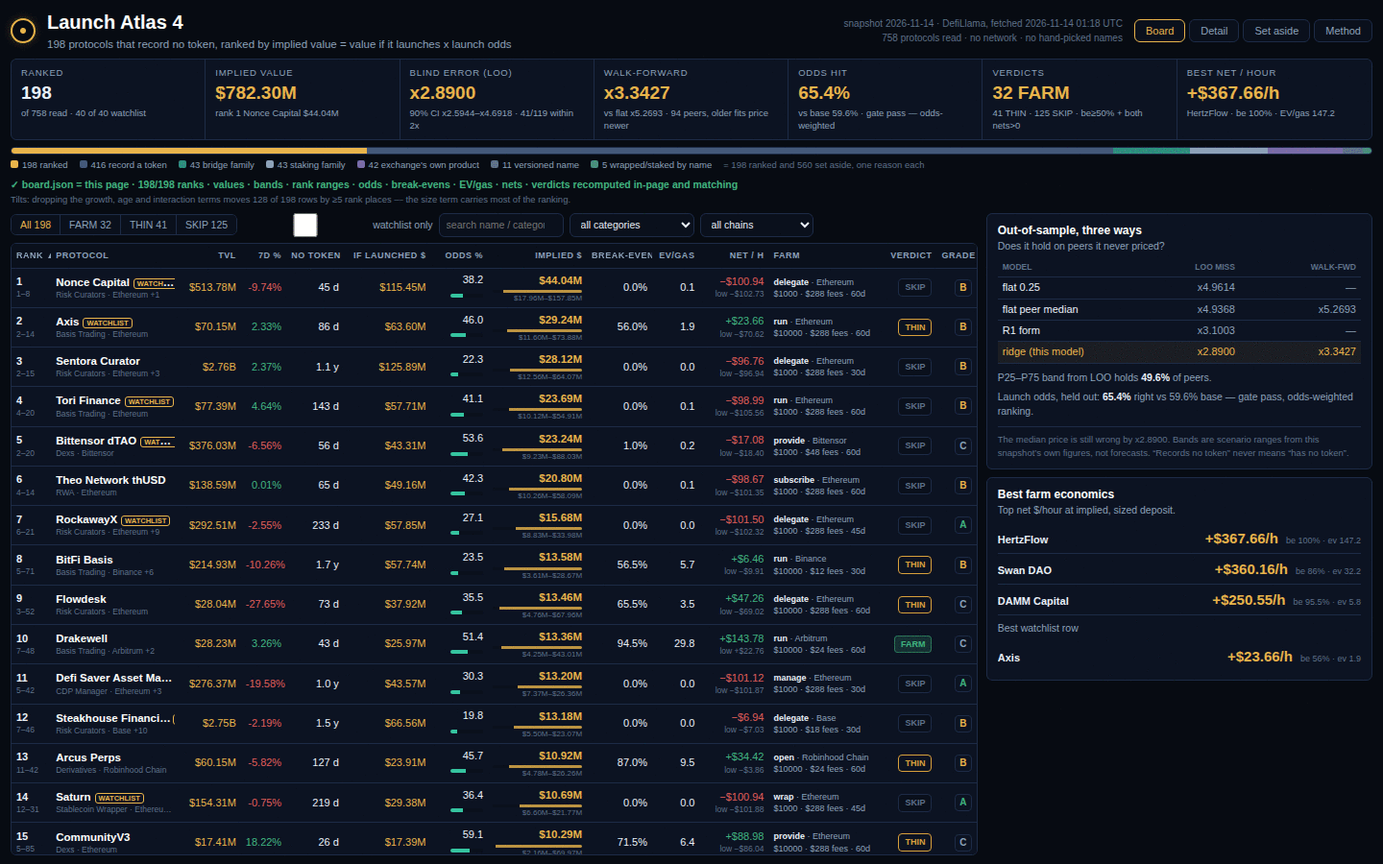
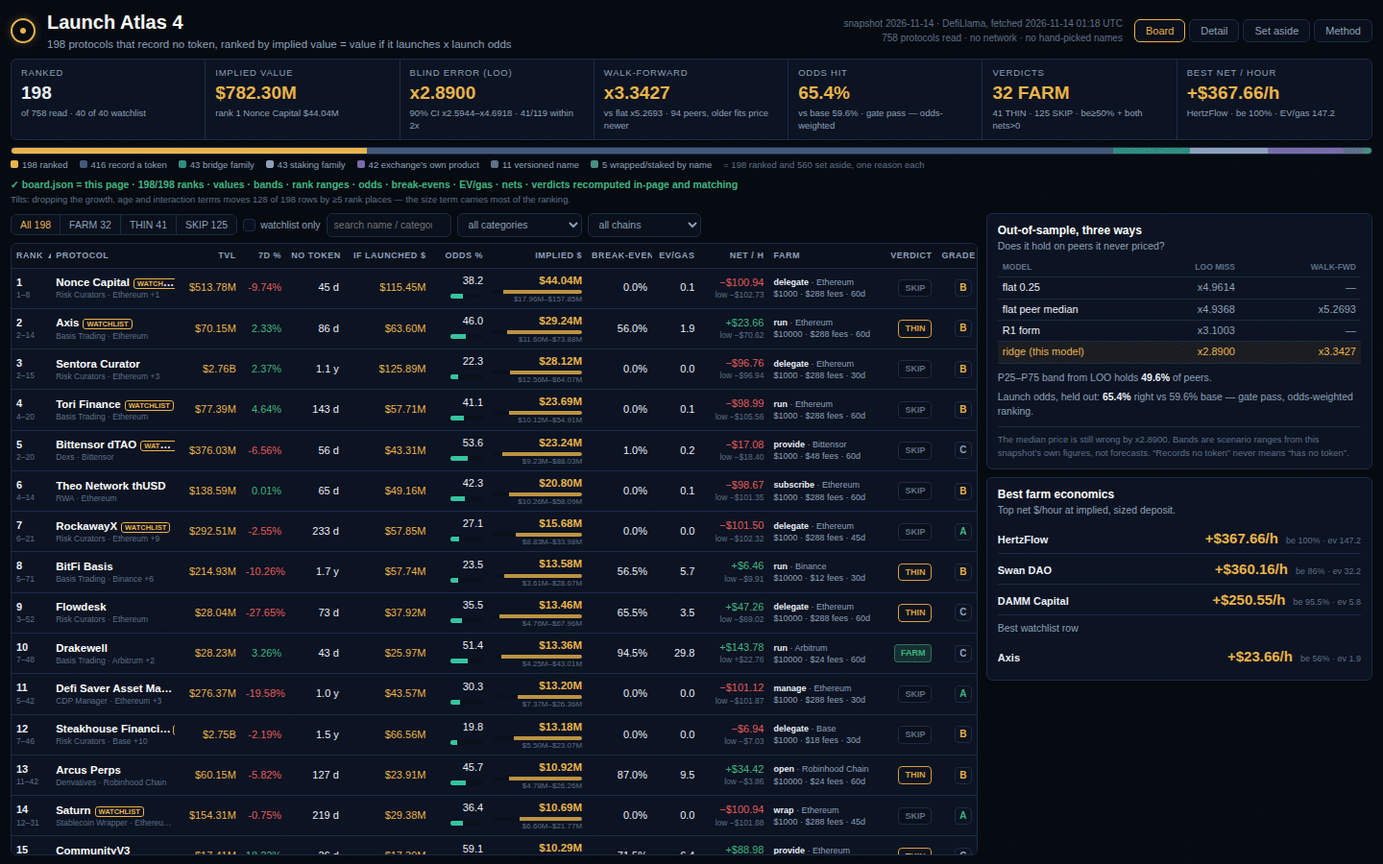
Final polish: revision passes, README, final screenshots; remove working spec
Revision passes (every measured number unchanged):
- lib/model.ts: extract the thrice-duplicated implied-value ranking comparator
  into named impliedCmp/impliedIdxCmp helpers (clarity/DRY).
- dashboard/app.js: mirror the same comparator extraction (icmp/iicmp).
- main.ts: early snapshot-shape validation + --out/--output flag alias.
- dashboard/app.css: design refinements from the screenshots — thicker gold
  band bars (4px) and teal odds bars (5px), subtle panel depth, and a properly
  dark-themed watchlist checkbox (was a native white square; scoped the
  #controls input rule to the search box) with muted dropdown labels.

README.md: what the entry is, the model in brief, how to run it, and the three
live make.fun badges (competition + this repo's rank/reward) as images plus a
link to the competition page. Real URLs, no placeholders.

Final screenshots re-captured at 1440x900, palette-quantized: 1-board 174093,
2-detail 97817, 3-setaside 94635 bytes (all <=240 KB), zero console errors,
in-page self-verification 198/198 on all 18 fields.

Verified unchanged: ridge LOO x2.8900 (CI x2.5944-x4.6918, 41/119 within 2x,
50.4% within 3x, spearman 0.344, range holds 49.6%), R1 x3.1003, flats
x4.9368/x4.9614, walk-forward x3.3427 vs x5.2693 over 94, odds 65.4% vs 59.6%
gate pass, 198/144/40-of-40, verdicts 32 FARM/41 THIN/125 SKIP, total implied
$782,300,948, tilts 128/198. Budgets: index 3559, css 7759, js 32206, total
[…]

Changed region(s): [[0.0, 0.3111, 0.7188, 0.9956], [0.1875, 0.2489, 0.4688, 0.28], [0.5, 0.2489, 0.5625, 0.28]]

diff --git a/dashboard/app.js b/dashboard/app.js
@@ -28,6 +28,8 @@ function fitLogistic(rows,w){const g=w?OG:[],pen=w?[0,1,1,1,1,1,1]:[0,0.1],X=row
 const lF=(m,p,age)=>{const x=lf(Object.assign({},p,{age}),m.groups,m.w);return 1/(1+Math.exp(-x.reduce((s,v,j)=>s+v*m.beta[j],0)));};
 function launchOdds(m,p){const a=lF(m,p,p.age),b=lF(m,p,p.age+730);return Math.max(0.03,Math.min(0.85,(b-a)/(1-a)));}
 const impliedValue=(v,o)=>Math.round(v*o);
+const icmp=f=>(a,b)=>f(b)-f(a)||b.tvl_usd-a.tvl_usd||(a.slug<b.slug?-1:1);
+const iicmp=(it,im)=>(a,b)=>im[b]-im[a]||it[b].tvl_usd-it[a].tvl_usd||(it[a].slug<it[b].slug?-1:1);
 const EXC=new Set(['CEX','Bridge','Canonical Bridge','Liquid Staking','Liquid Restaking','Restaked BTC']);
 const isVer=n=>/\s(?:v\d+(?:\.\d+)*|\d+\.\d+(?:\.\d+)*)$/i.test(n);
 const isNW=n=>/\b(?:wrapped|staked|staking)\b/i.test(n);
@@ -42,10 +44,10 @@ const tierBonus=t=>t>=1e9?30:t>=1e8?20:t>=1e7?10:0;
 const holdDays=a=>a<180?60:a<365?45:30;
 function farmPlan(p,implied){const chain=p.chains[0],{band,klass}=chainFee(chain),hold=holdDays(p.age),hours=(150+tierBonus(p.tvl_usd))/60;const opp=d=>d*TBILL*hold/365,net=d=>implied*(d/p.tvl_usd)*SHARE-band-opp(d);let deposit=1000,best=-Infinity;for(const d of DEPOSITS){const v=net(d);if(v>best){best=v;deposit=d;}}if(best<=0)deposit=1000;return{steps:STEPS[p.slug]||[],fees_usd:band,hours,hold_days:hold,chain,chain_class:klass,deposit_usd:deposit};}
 function economics(implied,bl,tvl,dep,fees,hold,hours){const opp=dep*TBILL*hold/365,sl=v=>v*(dep/tvl)*SHARE,ni=sl(implied)-fees-opp,nl=sl(bl)-fees-opp;return{slice_usd:sl(implied),opportunity_usd:opp,net_total_implied:ni,net_per_hour_implied:ni/hours,net_total_band_low:nl,net_per_hour_band_low:nl/hours};}
-function boot(peers,ranked,odds,plans,N){const rng=mulberry32(0x4c413032),n=peers.length,R=ranked.length,vals=ranked.map(()=>[]),rks=ranked.map(()=>[]),nets=ranked.map(()=>[]),sls=ranked.map(()=>[]),opp={};for(const p of ranked){const pl=plans[p.slug];opp[p.slug]=pl.deposit_usd*TBILL*pl.hold_days/365;}for(let r=0;r<N;r++){const smp=[];for(let i=0;i<n;i++)smp.push(peers[Math.floor(rng()*n)]);const m=fitRidge(smp),ri=ranked.map((p,i)=>{const v=valueIfLaunched(m,p);vals[i].push(v);const imp=impliedValue(v,odds[p.slug]),pl=plans[p.slug],sl=imp*(pl.deposit_usd/p.tvl_usd)*SHARE;sls[i].push(sl);nets[i].push(sl-pl.fees_usd-opp[p.slug]);return imp;});ranked.map((_,i)=>i).sort((a,b)=>ri[b]-ri[a]||ranked[b].tvl_usd-ranked[a].tvl_usd||(ranked[a].slug<ranked[b].slug?-1:1)).forEach((i,pl)=>rks[i].push(pl+1));}const out={};ranked.forEach((p,i)=>{const o=odds[p.slug],pl=plans[p.slug],vs=[...vals[i]].sort((a,b)=>a-b),bl=Math.round(qnt(vs,.1)),bh=Math.round(qnt(vs,.9)),rs=[...rks[i]].sort((a,b)=>a-b),rl=Math.max(1,Math.min(R,Math.round(qnt(rs,.1)))),rh=Math.max(1,Math.min(R,Math.round(qnt(rs,.9)))),be=nets[i].filter(v=>v>0).length/N;out[p.slug]={band_lo:bl,band_hi:bh,implied_band_lo:Math.round(bl*o),implied_band_hi:Math.round(bh*o),rank_lo:rl,rank_hi:rh,break_even_odds_pct:Math.round(be*1000)/10,ev_per_gas:Math.round(mean(sls[i])/pl.fees_usd*10)/10,mean_refit_net:mean(nets[i]),grade:bh/bl<=4?'A':bh/bl<=9?'B':'C'};});return out;}
+function boot(peers,ranked,odds,plans,N){const rng=mulberry32(0x4c413032),n=peers.length,R=ranked.length,vals=ranked.map(()=>[]),rks=ranked.map(()=>[]),nets=ranked.map(()=>[]),sls=ranked.map(()=>[]),opp={};for(const p of ranked){const pl=plans[p.slug];opp[p.slug]=pl.deposit_usd*TBILL*pl.hold_days/365;}for(let r=0;r<N;r++){const smp=[];for(let i=0;i<n;i++)smp.push(peers[Math.floor(rng()*n)]);const m=fitRidge(smp),ri=ranked.map((p,i)=>{const v=valueIfLaunched(m,p);vals[i].push(v);const imp=impliedValue(v,odds[p.slug]),pl=plans[p.slug],sl=imp*(pl.deposit_usd/p.tvl_usd)*SHARE;sls[i].push(sl);nets[i].push(sl-pl.fees_usd-opp[p.slug]);return imp;});ranked.map((_,i)=>i).sort(iicmp(ranked,ri)).forEach((i,pl)=>rks[i].push(pl+1));}const out={};ranked.forEach((p,i)=>{const o=odds[p.slug],pl=plans[p.slug],vs=[...vals[i]].sort((a,b)=>a-b),bl=Math.round(qnt(vs,.1)),bh=Math.round(qnt(vs,.9)),rs=[...rks[i]].sort((a,b)=>a-b),rl=Math.max(1,Math.min(R,Math.round(qnt(rs,.1)))),rh=Math.max(1,Math.min(R,Math.round(qnt(rs,.9)))),be=nets[i].filter(v=>v>0).length/N;out[p.slug]={band_lo:bl,band_hi:bh,implied_band_lo:Math.round(bl*o),implied_band_hi:Math.round(bh*o),rank_lo:rl,rank_hi:rh,break_even_odds_pct:Math.round(be*1000)/10,ev_per_gas:Math.round(mean(sls[i])/pl.fees_usd*10)/10,mean_refit_net:mean(nets[i]),grade:bh/bl<=4?'A':bh/bl<=9?'B':'C'};});return out;}
 const VERDICT_RULE='FARM if break-even odds are at least 50% and net at implied value is positive and net at the low end of the band is positive; otherwise THIN if mean refit net is positive; otherwise SKIP.';
 const verdictOf=(a,e)=>a.break_even_odds_pct>=50&&e.net_per_hour_implied>0&&e.net_per_hour_band_low>0?'FARM':a.mean_refit_net>0?'THIN':'SKIP';
-function buildRadar(){const protocols=parse(D.meta.asOf,D.protocols),peers=peersOf(protocols),uni=universe(protocols,D.watchlist),W=new Set(D.watchlist),gm=fitLogistic(protocols,true),fr=fitRidge(peers),odds={},vals={};for(const p of uni.ranked){odds[p.slug]=launchOdds(gm,p);vals[p.slug]=valueIfLaunched(fr,p);}const gate=D.validation.odds.gatePass,imp=p=>gate?impliedValue(vals[p.slug],odds[p.slug]):vals[p.slug];const rs=[...uni.ranked].sort((a,b)=>imp(b)-imp(a)||b.tvl_usd-a.tvl_usd||(a.slug<b.slug?-1:1)),plans={};for(const p of rs)plans[p.slug]=farmPlan(p,imp(p));const an=boot(peers,rs,odds,plans,200);const rows=rs.map((p,i)=>{const a=an[p.slug],pl=plans[p.slug],im=imp(p),e=economics(im,a.implied_band_lo,p.tvl_usd,pl.deposit_usd,pl.fees_usd,pl.hold_days,pl.hours),o=odds[p.slug];return{slug:p.slug,name:p.name,rank:i+1,category:p.category,chain:p.chains[0],chains:p.chains,watchlist:W.has(p.slug),tvl_usd:p.tvl_usd,change_7d_pct:p.change_7d==null?0:p.change_7d,age_days:p.age,value_if_launched_usd:vals[p.slug],launch_odds_pct:Math.round(o*1000)/10,implied_value_usd:im,band_lo:a.band_lo,band_hi:a.band_hi,implied_band_lo:a.implied_band_lo,implied_band_hi:a.implied_band_hi,rank_lo:a.rank_lo,rank_hi:a.rank_hi,break_even_odds_pct:a.break_even_odds_pct,ev_per_gas:a.ev_per_gas,deposit_usd:pl.deposit_usd,fees_usd:pl.fees_usd,hours:pl.hours,hold_days:pl.hold_days,slice_usd:e.slice_usd,opportunity_usd:e.opportunity_usd,net_per_hour_implied:e.net_per_hour_implied,net_per_hour_band_low:e.net_per_hour_band_low,net_total_implied:e.net_total_implied,net_total_band_low:e.net_total_band_low,mean_refit_net:a.mean_refit_net,verdict:verdictOf(a,e),grade:a.grade,farm_steps:pl.steps};});const verdicts={FARM:0,THIN:0,SKIP:0};for(const r of rows)verdicts[r.verdict]++;const totalImplied=rows.reduce((s,r)=>s+r.implied_value_usd,0),best=[...rows].sort((a,b)=>b.net_per_hour_implied-a.net_per_hour_implied)[0];return{protocols,peers,fr,gm,odds,vals,plans,an,rows,setAside:uni.setAside,accounting:uni.accounting,verdicts,totalImplied,best};}
+function buildRadar(){const protocols=parse(D.meta.asOf,D.protocols),peers=peersOf(protocols),uni=universe(protocols,D.watchlist),W=new Set(D.watchlist),gm=fitLogistic(protocols,true),fr=fitRidge(peers),odds={},vals={};for(const p of uni.ranked){odds[p.slug]=launchOdds(gm,p);vals[p.slug]=valueIfLaunched(fr,p);}const gate=D.validation.odds.gatePass,imp=p=>gate?impliedValue(vals[p.slug],odds[p.slug]):vals[p.slug];const rs=[...uni.ranked].sort(icmp(imp)),plans={};for(const p of rs)plans[p.slug]=farmPlan(p,imp(p));const an=boot(peers,rs,odds,plans,200);const rows=rs.map((p,i)=>{const a=an[p.slug],pl=plans[p.slug],im=imp(p),e=economics(im,a.implied_band_lo,p.tvl_usd,pl.deposit_usd,pl.fees_usd,pl.hold_days,pl.hours),o=odds[p.slug];return{slug:p.slug,name:p.name,rank:i+1,category:p.category,chain:p.chains[0],chains:p.chains,watchlist:W.has(p.slug),tvl_usd:p.tvl_usd,change_7d_pct:p.change_7d==null?0:p.change_7d,age_days:p.age,value_if_launched_usd:vals[p.slug],launch_odds_pct:Math.round(o*1000)/10,implied_value_usd:im,band_lo:a.band_lo,band_hi:a.band_hi,implied_band_lo:a.implied_band_lo,implied_band_hi:a.implied_band_hi,rank_lo:a.rank_lo,rank_hi:a.rank_hi,break_even_odds_pct:a.break_even_odds_pct,ev_per_gas:a.ev_per_gas,deposit_usd:pl.deposit_usd,fees_usd:pl.fees_usd,hours:pl.hours,hold_days:pl.hold_days,slice_usd:e.slice_usd,opportunity_usd:e.opportunity_usd,net_per_hour_implied:e.net_per_hour_implied,net_per_hour_band_low:e.net_per_hour_band_low,net_total_implied:e.net_total_implied,net_total_band_low:e.net_total_band_low,mean_refit_net:a.mean_refit_net,verdict:verdictOf(a,e),grade:a.grade,farm_steps:pl.steps};});const verdicts={FARM:0,THIN:0,SKIP:0};for(const r of rows)verdicts[r.verdict]++;const totalImplied=rows.reduce((s,r)=>s+r.implied_value_usd,0),best=[...rows].sort((a,b)=>b.net_per_hour_implied-a.net_per_hour_implied)[0];return{protocols,peers,fr,gm,odds,vals,plans,an,rows,setAside:uni.setAside,accounting:uni.accounting,verdicts,totalImplied,best};}
 /* ---- verification ---- */
 const FIELDS=['rank','implied_value_usd','value_if_launched_usd','launch_odds_pct','band_lo','band_hi','implied_band_lo','implied_band_hi','rank_lo','rank_hi','break_even_odds_pct','ev_per_gas','net_per_hour_implied','net_per_hour_band_low','verdict','grade','deposit_usd','fees_usd'];
 function verify(M){const ref={};for(const r of D.rows)ref[r.slug]=r;const counts={};let allOk=true;for(const f of FIELDS){let ok=0;for(const r of M.rows){const q=ref[r.slug];if(!q){allOk=false;continue;}const a=r[f],b=q[f],eq=typeof a==='number'?Math.abs(a-b)<1e-6:a===b;if(eq)ok++;else allOk=false;}counts[f]=ok;}return{counts,allOk,n:M.rows.length};}

diff --git a/dashboard/app.css b/dashboard/app.css
@@ -2,7 +2,7 @@
 *{box-sizing:border-box;margin:0;padding:0}html,body{height:100%}
 body{background:var(--bg);color:var(--ink);font:12px/1.4 -apple-system,BlinkMacSystemFont,"Segoe UI",Roboto,Helvetica,Arial,sans-serif;font-variant-numeric:tabular-nums;display:flex;flex-direction:column;height:100vh;overflow:hidden;padding:9px 11px;gap:7px}
 .lab{font-size:10px;letter-spacing:.08em;text-transform:uppercase;color:var(--muted)}.faint{color:var(--faint)}.muted{color:var(--muted)}.gold{color:var(--gold)}.pos{color:var(--green)}.neg{color:var(--red)}
-.panel{background:var(--panel);border:1px solid var(--line);border-radius:6px}
+.panel{background:var(--panel);border:1px solid var(--line);border-radius:6px;box-shadow:0 1px 3px rgba(0,0,0,.35)}
 #hdr{display:flex;align-items:center;gap:12px;flex:0 0 auto}
 .radar{width:26px;height:26px;border-radius:50%;border:2px solid var(--gold);position:relative;flex:0 0 auto;box-shadow:0 0 10px rgba(233,180,76,.25)}.radar::after{content:"";position:absolute;inset:8px;border-radius:50%;background:var(--gold)}
 #hdr h1{font-size:20px;font-weight:600;color:#fff}#claim{color:var(--muted);font-size:11.5px;margin-top:1px}
@@ -16,16 +16,16 @@ body{background:var(--bg);color:var(--ink);font:12px/1.4 -apple-system,BlinkMacS
 #split{flex:1 1 auto;display:flex;gap:9px;min-height:0}#left{flex:0 0 71%;display:flex;flex-direction:column;min-width:0;min-height:0}#rail{flex:1 1 29%;display:flex;flex-direction:column;gap:8px;min-height:0;overflow:auto}
 #controls{display:flex;gap:6px;align-items:center;flex:0 0 auto;margin-bottom:6px;flex-wrap:wrap}
 .seg{display:flex;border:1px solid var(--line);border-radius:6px;overflow:hidden}.seg button{background:var(--panel2);border:0;color:var(--muted);padding:4px 9px;font-size:10.5px;cursor:pointer;border-right:1px solid var(--line)}.seg button:last-child{border-right:0}.seg button.on{color:var(--gold)}
-#controls input,#controls select{background:var(--panel2);border:1px solid var(--line);color:var(--ink);border-radius:6px;padding:4px 7px;font-size:10.5px;height:25px}#controls input{width:130px}#controls select{max-width:130px}
-.toggle{display:flex;align-items:center;gap:5px;font-size:10.5px;color:var(--muted);cursor:pointer}.toggle input{accent-color:var(--gold)}
+#controls input[type="search"],#controls select{background:var(--panel2);border:1px solid var(--line);color:var(--ink);border-radius:6px;padding:4px 7px;font-size:10.5px;height:25px}#controls input[type="search"]{width:130px}#controls select{max-width:130px;color:var(--muted)}
+.toggle{display:flex;align-items:center;gap:5px;font-size:10.5px;color:var(--muted);cursor:pointer}.toggle input{appearance:none;-webkit-appearance:none;width:13px;height:13px;border:1px solid var(--line);border-radius:3px;background:var(--panel2);cursor:pointer;position:relative;vertical-align:-2px;flex:0 0 auto}.toggle input:checked{background:var(--gold);border-color:var(--gold)}.toggle input:checked::after{content:"";position:absolute;left:4px;top:1px;width:3px;height:7px;border:solid var(--bg);border-width:0 2px 2px 0;transform:rotate(45deg)}
 #tablewrap{flex:1 1 auto;overflow:auto;min-height:0;border:1px solid var(--line);border-radius:6px;background:var(--panel)}
 table{border-collapse:collapse;width:100%;table-layout:fixed}
 thead th{position:sticky;top:0;background:var(--panel2);z-index:2;font-size:9px;letter-spacing:.06em;text-transform:uppercase;color:var(--muted);text-align:right;padding:6px 5px;border-bottom:1px solid var(--line);cursor:pointer;white-space:nowrap;font-weight:600}thead th.l{text-align:left}
 tbody td{padding:4px 5px;border-bottom:1px solid var(--line);text-align:right;font-size:11px;vertical-align:middle;overflow:hidden}tbody td.l{text-align:left}tbody tr{cursor:pointer}tbody tr:hover{background:rgba(30,44,71,.35)}tbody tr.sel{background:rgba(233,180,76,.08)}
 .rk{font-weight:600}.rksub{font-size:8.5px;color:var(--faint)}.pname{font-weight:600;color:#fff;font-size:11.5px;white-space:nowrap;overflow:hidden;text-overflow:ellipsis}.psub{font-size:8.5px;color:var(--faint);white-space:nowrap;overflow:hidden;text-overflow:ellipsis}
 .wltag{border:1px solid var(--gold);color:var(--gold);border-radius:3px;font-size:7.5px;padding:0 3px;margin-left:4px}.money{color:var(--gold)}.imp{color:var(--gold);font-weight:600;font-size:11.5px}
-.bandbar{height:3px;background:var(--panel2);border-radius:2px;margin-top:2px;position:relative;overflow:hidden}.bandbar i{position:absolute;height:100%;background:var(--gold);opacity:.8}.bandfig{font-size:8px;color:var(--faint);white-space:nowrap}
-.oddsbar{display:inline-block;width:34px;height:4px;background:var(--panel2);border-radius:2px;overflow:hidden;vertical-align:middle;margin-left:4px}.oddsbar i{display:block;height:100%;background:var(--teal)}.netsub{font-size:8.5px;color:var(--faint)}
+.bandbar{height:4px;background:var(--panel2);border-radius:2px;margin-top:2px;position:relative;overflow:hidden}.bandbar i{position:absolute;height:100%;background:var(--gold);opacity:.8}.bandfig{font-size:8px;color:var(--faint);white-space:nowrap}
+.oddsbar{display:inline-block;width:34px;height:5px;background:var(--panel2);border-radius:2px;overflow:hidden;vertical-align:middle;margin-left:4px}.oddsbar i{display:block;height:100%;background:var(--teal)}.netsub{font-size:8.5px;color:var(--faint)}
 .farmcell{font-size:9px;color:var(--muted);line-height:1.35;text-align:left}.farmcell b{color:var(--ink)}
 .chip{display:inline-block;border-radius:4px;font-size:9px;font-weight:600;padding:2px 6px}.chip.FARM{background:rgba(67,181,129,.18);color:var(--green);border:1px solid rgba(67,181,129,.5)}.chip.THIN{color:var(--amber);border:1px solid var(--amber)}.chip.SKIP{background:var(--panel2);color:var(--faint);border:1px solid var(--line)}
 .grade{display:inline-block;width:18px;height:18px;line-height:16px;text-align:center;border:1px solid var(--line);border-radius:4px;font-size:10px;font-weight:600;color:var(--muted)}.grade.A{color:var(--green)}.grade.B{color:var(--gold)}

diff --git a/lib/model.ts b/lib/model.ts
@@ -636,6 +636,15 @@ export function economics(implied: number, bandLowImplied: number, tvl: number, 
   };
 }
 
+// ---------------------------------------------------------------- ranking comparator
+
+/** The board's tie-break rule: implied desc, then TVL desc, then slug asc. */
+export const impliedCmp = (imp: (p: Protocol) => number) => (a: Protocol, b: Protocol): number =>
+  imp(b) - imp(a) || b.tvl_usd - a.tvl_usd || (a.slug < b.slug ? -1 : 1);
+/** Index variant of impliedCmp over a precomputed implied array (used per bootstrap refit). */
+export const impliedIdxCmp = (items: Protocol[], imp: number[]) => (a: number, b: number): number =>
+  imp[b] - imp[a] || items[b].tvl_usd - items[a].tvl_usd || (items[a].slug < items[b].slug ? -1 : 1);
+
 // ---------------------------------------------------------------- Part 3: bootstrap analytics
 
 export interface RowAnalytics {
@@ -681,8 +690,7 @@ export function bootstrapAnalytics(
       return imp;
     });
     // rank within this refit: implied desc, TVL desc, slug asc
-    const order = ranked.map((_, idx) => idx).sort((a, b) =>
-      refitImplied[b] - refitImplied[a] || ranked[b].tvl_usd - ranked[a].tvl_usd || (ranked[a].slug < ranked[b].slug ? -1 : 1));
+    const order = ranked.map((_, idx) => idx).sort(impliedIdxCmp(ranked, refitImplied));
     order.forEach((idx, place) => ranks[idx].push(place + 1));
   }
   const out = new Map<string, RowAnalytics>();
@@ -713,7 +721,7 @@ export function bootstrapAnalytics(
 export function tilts(peers: Protocol[], ranked: Protocol[], oddsBySlug: Map<string, number>, fullRanks: Map<string, number>): { moved: number; total: number } {
   const model = fitRidge(peers, true);
   const imp = ranked.map((p) => impliedValue(valueIfLaunched(model, p), oddsBySlug.get(p.slug) as number));
-  const order = ranked.map((_, i) => i).sort((a, b) => imp[b] - imp[a] || ranked[b].tvl_usd - ranked[a].tvl_usd || (ranked[a].slug < ranked[b].slug ? -1 : 1));
+  const order = ranked.map((_, i) => i).sort(impliedIdxCmp(ranked, imp));
   const tiltRank = new Map<string, number>();
   order.forEach((idx, place) => tiltRank.set(ranked[idx].slug, place + 1));
   let moved = 0;
@@ -782,8 +790,7 @@ export function buildRadar(snapshot: Snapshot): Board {
     : (valueBySlug.get(p.slug) as number);
 
   // rank: implied desc, TVL desc, slug asc
-  const rankedSorted = [...uni.ranked].sort((a, b) =>
-    impliedOf(b) - impliedOf(a) || b.tvl_usd - a.tvl_usd || (a.slug < b.slug ? -1 : 1));
+  const rankedSorted = [...uni.ranked].sort(impliedCmp(impliedOf));
   const fullRanks = new Map<string, number>();
   rankedSorted.forEach((p, i) => fullRanks.set(p.slug, i + 1));
 

diff --git a/main.ts b/main.ts
@@ -11,20 +11,23 @@ import { buildDossier } from './vendor/makefun-board.ts';
 
 const repoRoot = import.meta.dirname;
 
-function readInput(): string {
+function flag(name: string): string | undefined {
   const args = process.argv.slice(2);
   for (let i = 0; i < args.length; i++) {
-    if (args[i] === '--input' && args[i + 1]) return args[i + 1];
-    if (args[i].startsWith('--input=')) return args[i].slice('--input='.length);
+    if (args[i] === '--' + name && args[i + 1]) return args[i + 1];
+    if (args[i].startsWith('--' + name + '=')) return args[i].slice(name.length + 3);
   }
-  return '/input/snapshot.json';
+  return undefined;
 }
 
-const inputPath = readInput();
-const outDir = process.env.MAKEFUN_OUTPUT_DIR || '/output';
+const inputPath = flag('input') ?? '/input/snapshot.json';
+const outDir = flag('out') ?? flag('output') ?? process.env.MAKEFUN_OUTPUT_DIR ?? '/output';
 mkdirSync(outDir, { recursive: true });
 
 const raw = JSON.parse(readFileSync(inputPath, 'utf8'));
+if (typeof raw.as_of !== 'string' || !Array.isArray(raw.protocols) || !Array.isArray(raw.watchlist)) {
+  throw new Error(`main: ${inputPath} is not a snapshot (need as_of, protocols[], watchlist[])`);
+}
 const snapshot = parseSnapshot(raw);
 const board = buildRadar(snapshot); // runs the self-check gates internally
 

diff --git a/README.md b/README.md
@@ -1,0 +1,94 @@
+# Launch Atlas 4
+
+[![token-radar-01](https://make.fun/badge/token-radar-01.svg)](https://make.fun/competitions/token-radar-01)
+[![rank](https://make.fun/badge/token-radar-01/arizkis/token-radar-01-r4/rank.svg)](https://make.fun/competitions/token-radar-01)
+[![reward](https://make.fun/badge/token-radar-01/arizkis/token-radar-01-r4/reward.svg)](https://make.fun/competitions/token-radar-01)
+
+A token-launch radar for the [make.fun](https://make.fun) competition
+[token-radar-01](https://make.fun/competitions/token-radar-01), round 4. It reads a sealed
+snapshot of 758 DeFi protocols and ranks the **198 that record no token** by *implied value* —
+what a protocol's token could be worth if it launches, times the odds that it launches within two
+years — then writes a costed, deposit-sized farm plan and a verdict for every row. The whole thing
+is a dark trading-terminal dashboard that recomputes every printed number in the page from the raw
+figures, so the screenshots and the source always agree.
+
+Everything is computed at runtime from the snapshot's own figures. No network at runtime, no
+hand-picked names, no hard-coded board. Node 22 standard library only.
+
+## How the model works
+
+Three parts, all recomputed from the snapshot (see `lib/model.ts`, mirrored in `dashboard/app.js`):
+
+1. **Value if launched.** A joint ridge on `log10(mcap/TVL)` fit on the 119 priced peers
+   (mcap > 0, TVL > 0, not a CEX). Features: standardized `log10 TVL`, 7-day change, `log10 age`,
+   category and primary-chain dummies, and category × size interactions, with penalties
+   0 / 0.3 / 3 / 100. Solved by Gaussian elimination with partial pivoting.
+   `valueIfLaunched = TVL × 10^predicted`, whole dollars. Validated by strict leave-one-out
+   (median miss **x2.8900**, 90% CI x2.5944–x4.6918), an expanding walk-forward (**x3.3427** vs a
+   flat peer-median **x5.2693** over 94 peers), and an ablation ladder against flat and R1 baselines.
+2. **Launch odds.** A logistic regression of *records-a-token* on `log10 age` plus category-group
+   dummies (trading is the reference group), fit by penalized Newton iterations.
+   `odds = [F(a+730) − F(a)] / [1 − F(a)]`, clamped to [0.03, 0.85]. A seeded 70/30 holdout calls
+   **65.4%** right vs a **59.6%** base rate — clearing the ship gate (hit ≥ base + 5 pts), so the
+   ranking is odds-weighted: `implied = round(valueIfLaunched × odds)`.
+3. **Bootstrap analytics.** 200 seeded refits of the ridge give each row a value band (P10–P90),
+   a rank range, break-even odds, EV per dollar of gas, and net $/hour at implied value and at the
+   band low. A confidence grade (A/B/C) comes from the band width.
+
+**Universe.** Ranked = records no token, category not in {CEX, Bridge, Canonical Bridge, Liquid
+Staking, Liquid Restaking, Restaked BTC}, name not version-suffixed, no whole word
+wrapped/staked/staking, not an exchange name — plus every watchlist slug unconditionally
+(40 of 40). That yields 198 ranked / 144 set aside / 416 record a token = 758, each set-aside with
+one printed reason.
+
+**Farm plans & verdict.** Eight costed steps per row (chain gas float, core position, enrollment,
+weekly cadence, hold window, rewards check, pre-claim verification, exit), with the deposit sized
+from {250…10000} to maximize net $/hour. Economics: 10% depositor share, 4% T-bill opportunity cost,
+a per-chain fee table. The R4 verdict rule:
+
+> FARM if break-even odds are at least 50% and net at implied value is positive and net at the low
+> end of the band is positive; otherwise THIN if mean refit net is positive; otherwise SKIP.
+
+Round 4 adds the low-end costing to the FARM gate, so a row must clear zero on both costings.
+
+These are scenario economics from the snapshot's own figures, not a prediction that a token is
+issued. "Records no token" is a data state, never a claim that a protocol "has no token". The median
+out-of-sample price is still wrong by x2.89; the bands are wide because the relationship is noisy.
+Nothing here is investment advice.
+
+## Run it
+
+Node 22 (standard library only — no install, no build):
+
+```sh
+MAKEFUN_OUTPUT_DIR=out node main.ts --input path/to/snapshot.json
+```
+
+`--input` defaults to `/input/snapshot.json`; the output dir comes from `--out`/`--output` or
+`MAKEFUN_OUTPUT_DIR` (default `/output`). The program writes:
+
+- `board.json` — the 198 ranked rows (values, odds, bands, ranks, economics, verdicts, farm steps)
+  plus the set-aside rows, accounting and measured validation.
+- `data.js` — the raw figures + the board, loaded by the page so it can recompute every row.
+- `dashboard/` and `screenshots/` — copied into the output (the page loads `../data.js`).
+- `dossier.json` — built by the kit's `vendor/makefun-board.ts` (`buildDossier`, text cap 65536).
+
+Open `output/dashboard/index.html` in a browser. The page re-runs the model from `data.js` and
+prints a live self-verification line (`198/198` on every compared field). To regenerate the three
+1440×900 screenshots: `node scripts/capture.mjs <outputDir> <shotsDir>` (headless Chrome via
+puppeteer-core).
+
+## Layout
+
+```
+main.ts              entry point: snapshot in -> board.json + data.js + dashboard + dossier
+lib/model.ts         the model, farm plans, universe, validation, self-check gates
+dashboard/           index.html + app.css + app.js (the in-page mirror, dark terminal)
+screenshots/         1-board.png · 2-detail.png · 3-setaside.png (1440x900)
+scripts/capture.mjs  headless-Chrome screenshot capture
+vendor/              make.fun's makefun-board.ts (byte-for-byte, unmodified)
+```
+
+## License
+
+MIT — see [LICENSE](LICENSE).
